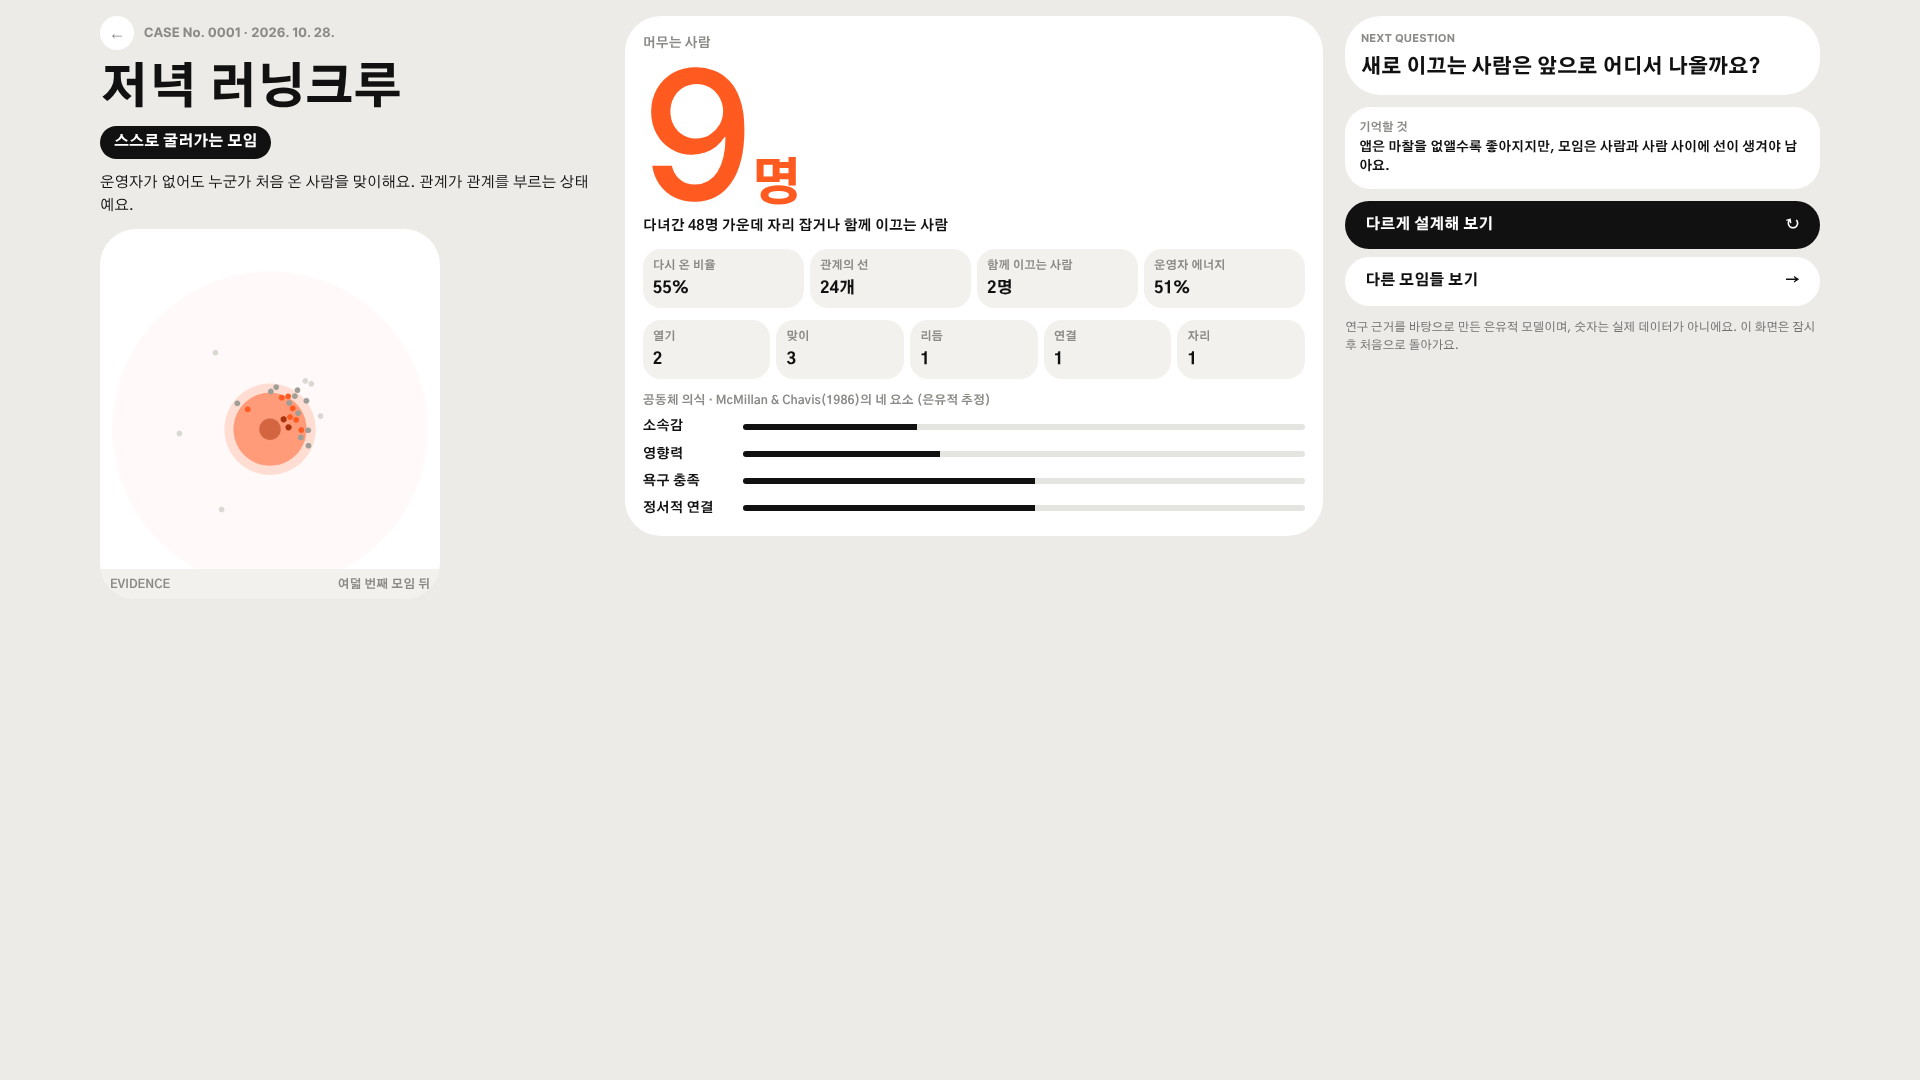
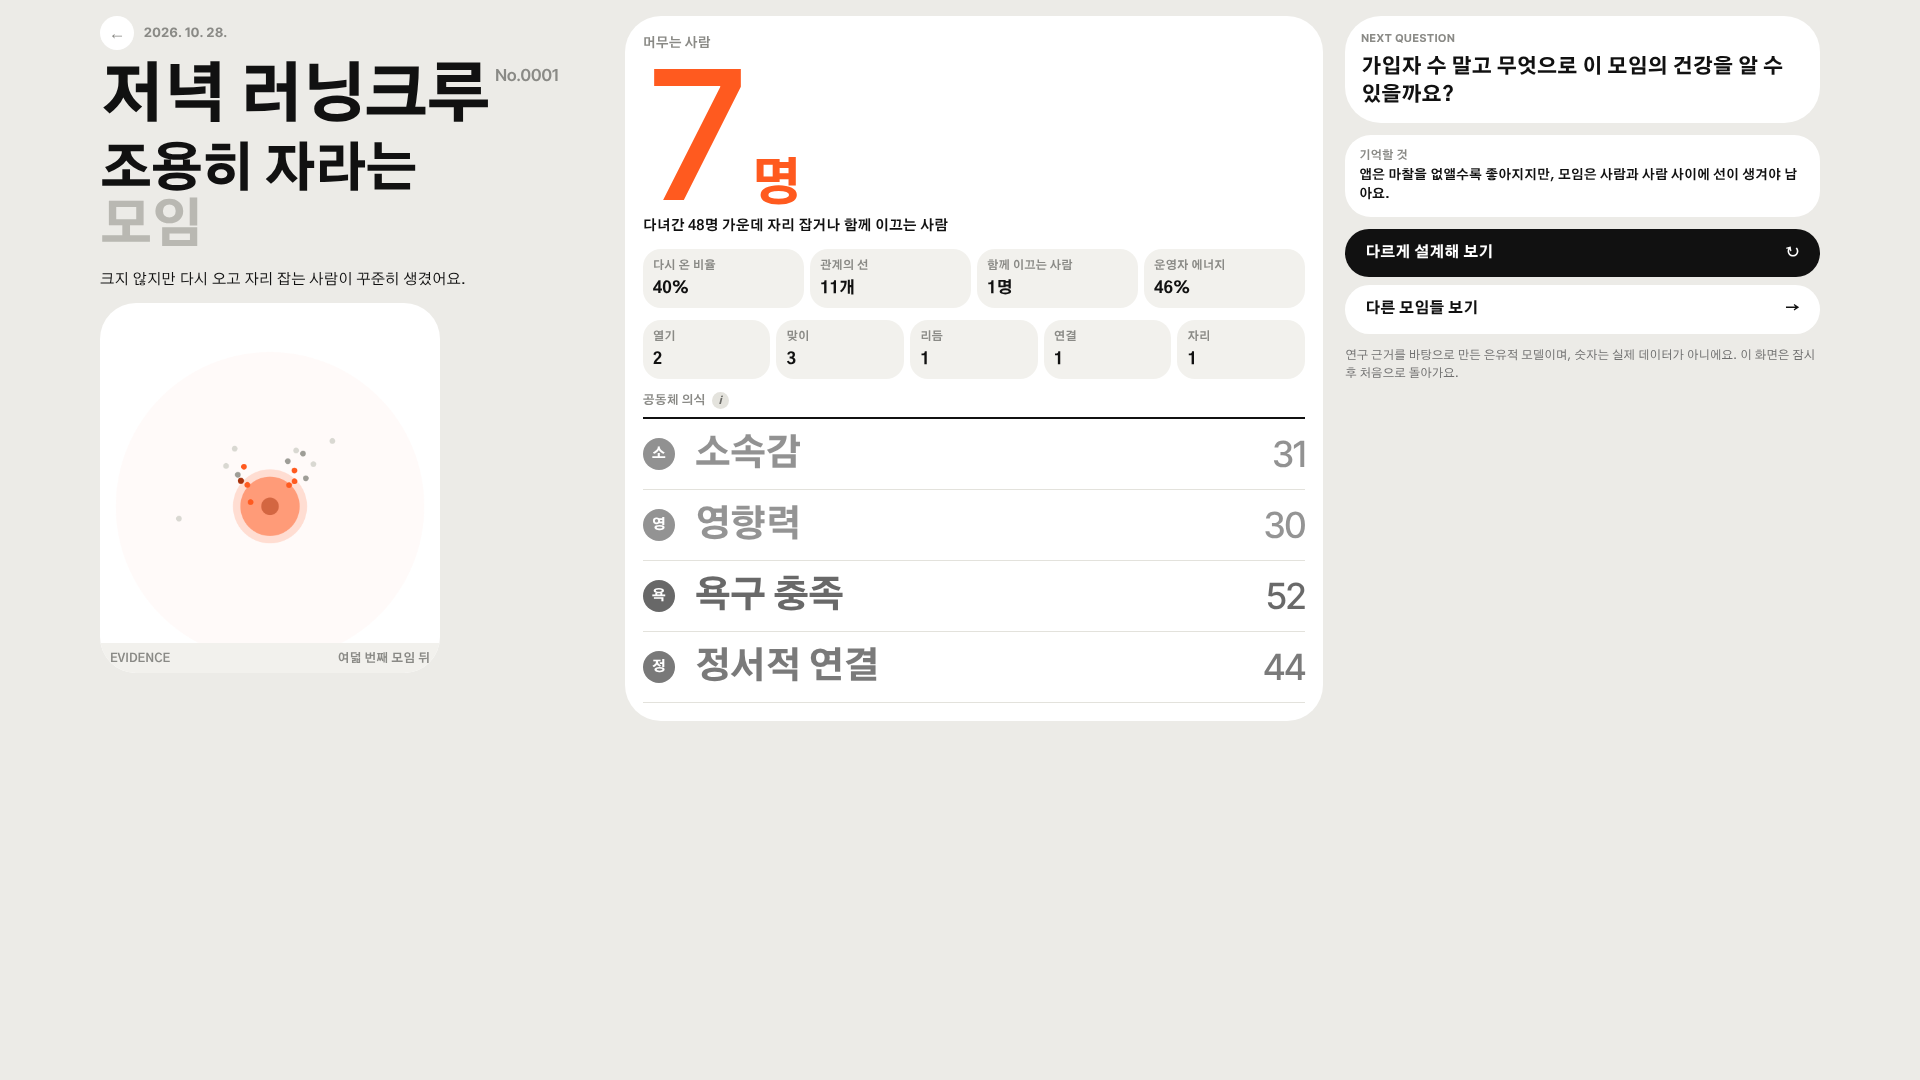
게임 v2.1 시안: 큰 제목+위첨자, 두 톤 결과 유형, 동그라미 글자 목록
Claude-Session: https://claude.ai/code/session_01SaCvLutmawHZS3kxPWYxw7

diff --git a/thesis/game/moim.v07.src.html b/thesis/game/moim.v07.src.html
@@ -585,6 +585,24 @@ body{background:var(--page)}
 .e-cells .cell{padding:12px 14px}
 .e-txt{padding:18px 26px 22px;gap:10px}
 .e-go{margin:0 18px 18px;padding:14px 18px}
+
+/* ───────── v2.1 볼드한 글자 대비: 큰 제목+위첨자, 두 톤 제목, 동그라미 글자 목록 ───────── */
+.bigt{font-weight:800;letter-spacing:-.03em;line-height:1;display:inline-flex;align-items:flex-start}
+.bigt sup{font-family:var(--f-head);font-weight:600;font-size:.26em;color:var(--soft);letter-spacing:0;margin-left:6px;line-height:1.4;vertical-align:top}
+.e-bar{padding:16px 24px;border-radius:var(--r-lg)}
+.e-bar .bigt{font-size:clamp(40px,4.4vw,64px)}
+.e-logo{gap:16px}
+.e-right{display:flex;align-items:center;gap:14px}
+.e-right small{font-family:var(--f-head);font-weight:600;font-size:13px;color:var(--soft)}
+.c2-l h1.bigt{font-size:clamp(40px,4.6vw,64px)}
+.two{font-weight:800;font-size:clamp(34px,3.6vw,52px);line-height:1.08;letter-spacing:-.03em;display:grid}
+.two span{color:#b9b8b2}
+.mm3{display:grid}
+.mm3 .h{font-size:12px;font-weight:700;color:var(--soft);display:flex;align-items:center;padding-bottom:8px;border-bottom:2px solid var(--ink)}
+.mm3 .r{display:grid;grid-template-columns:40px minmax(0,1fr) auto;align-items:center;gap:12px;padding:8px 0;border-bottom:1px solid #e3e2dc}
+.mm3 .r i{width:32px;height:32px;border-radius:50%;background:var(--ink);color:#fff;font-style:normal;font-weight:800;font-size:14px;display:grid;place-items:center;opacity:var(--o)}
+.mm3 .r b{font-weight:800;font-size:clamp(26px,2.4vw,36px);letter-spacing:-.03em;color:rgba(17,17,17,var(--o))}
+.mm3 .r em{font-style:normal;font-family:var(--f-head);font-weight:500;font-size:clamp(26px,2.4vw,36px);letter-spacing:-.03em;color:rgba(17,17,17,var(--o))}
 @media (prefers-reduced-motion:reduce){*{transition:none!important;animation:none!important}}
 </style>
 
@@ -622,6 +640,7 @@ const VERDICTS={
   burn:{t:'운영자가 지친 모임',c:COL.yellow,d:'모든 일이 한 사람에게 몰려 운영자가 먼저 지쳤어요. 커뮤니티는 출시 후에도 계속 가꿔야 해요.',q:'조금 더 하고 싶은 사람이 맡을 수 있는 자리가 있었나요?'},
   root:{t:'아직 뿌리내리지 못한 모임',c:COL.mute,d:'사람이 오고 갔지만 자리 잡은 사람이 적어요.',q:'사람들이 다시 와야 할 이유는 무엇인가요?'}
 };
+const VSPLIT={self:['스스로 굴러가는','모임'],quiet:['조용히 자라는','모임'],crowd:['북적이지만','머무르지 않는 모임'],closed:['끈끈하지만','닫힌 모임'],burn:['운영자가','지친 모임'],root:['아직 뿌리내리지','못한 모임']};
 const VORDER=['self','quiet','crowd','closed','burn','root'];
 const STAGE_NAMES=['처음 온 사람','다시 온 사람','자리 잡은 사람','함께 이끄는 사람'];
 const ACC='#2f6fe0';
@@ -962,7 +981,7 @@ function renderSelect(){
   screen='select';
   const now=new Date(),clock=`${pad(now.getHours())}:${pad(now.getMinutes())}`;
   app.innerHTML=`<section class="entry">
-    <div class="e-bar"><span class="e-logo"><button class="back" id="back" aria-label="처음 화면으로">←</button>Community Entry</span><span class="e-mid">모임을 하나 고르세요. 같은 설계라도 모임마다 결과가 달라요.</span><span class="e-clock num">${clock}</span></div>
+    <div class="e-bar"><span class="e-logo"><button class="back" id="back" aria-label="처음 화면으로">←</button><h1 class="bigt">모임 고르기<sup>${TKEYS.length}</sup></h1></span><span class="e-mid">모임을 하나 고르세요. 같은 설계라도 모임마다 결과가 달라요.</span><span class="e-right"><small>Community Entry</small><span class="e-clock num">${clock}</span></span></div>
     <div class="e-cards">${TKEYS.map((k,i)=>{const v=TYPES[k];return `<button class="ecard" data-t="${k}" style="--c:${v.c};--tbg:${TPAL[k].bg};--tink:${TPAL[k].ink}" aria-label="${v.name} 시작">
       <div class="e-img">${typeArt(k)}</div>
       <div class="e-head"><span class="code">${v.code}</span><span class="ev">${info(`근거 ${v.ev}: 선행연구에서 뽑은 발견 번호예요.`)}</span><span class="sub">${v.name} · ${v.place} · ${v.when} ${v.time}</span></div>
@@ -1145,9 +1164,9 @@ function renderReport(){
     '욕구 충족':clamp(20+8*k.rhythm+8*k.welcome,0,100),'정서적 연결':clamp(10+12*k.conn+Math.min(30,r.links*2),0,100)};
   app.innerHTML=`<section class="case2" style="--accent:${TPAL[r.type].dark};--accent-bg:${TPAL[r.type].bg}">
     <div class="c2-l">
-      <span class="no"><button class="back" id="home2" aria-label="처음 화면으로">←</button>CASE No. ${caseNo} · ${new Date(r.t).toLocaleDateString('ko-KR')}</span>
-      <h1>${T.name}</h1>
-      <span class="vchip">${V.t}</span>
+      <span class="no"><button class="back" id="home2" aria-label="처음 화면으로">←</button>${new Date(r.t).toLocaleDateString('ko-KR')}</span>
+      <h1 class="bigt">${T.name}<sup>No.${caseNo}</sup></h1>
+      <h2 class="two">${VSPLIT[r.verdict][0]}<span>${VSPLIT[r.verdict][1]}</span></h2>
       <p>${V.d}</p>
       <div class="photo2">${st.photo?`<img src="${st.photo}" alt="여덟 번째 모임이 끝난 뒤 모임의 모습">`:''}<div class="cap"><span>EVIDENCE</span><span>여덟 번째 모임 뒤</span></div></div>
     </div>
@@ -1159,8 +1178,8 @@ function renderReport(){
         <div class="cell"><small>함께 이끄는 사람</small><b>${r.leaders}명</b></div>
         <div class="cell"><small>운영자 에너지</small><b style="${r.energy<30?'color:var(--red)':''}">${r.energy}%</b></div></div>
       <div class="cgrid c2-skill">${SKILLS.map(s=>`<div class="cell"><small>${s.name}</small><b>${k[s.k]}</b></div>`).join('')}</div>
-      <div class="mm2"><span class="h">공동체 의식 · McMillan &amp; Chavis(1986)의 네 요소 (은유적 추정)</span>
-        ${Object.entries(g).map(([n,x])=>`<div class="r"><span>${n}</span><span class="bar"><i style="width:${x}%"></i></span></div>`).join('')}</div>
+      <div class="mm3"><span class="h">공동체 의식${info('McMillan &amp; Chavis(1986)의 네 요소를 설계에서 은유적으로 추정한 값이에요. 진할수록 높아요.')}</span>
+        ${Object.entries(g).map(([n,x])=>`<div class="r" style="--o:${(.22+.78*x/100).toFixed(2)}"><i>${n[0]}</i><b>${n}</b><em>${Math.round(x)}</em></div>`).join('')}</div>
     </div>
     <div class="c2-r">
       <div class="q2"><small>NEXT QUESTION</small><b>${V.q}</b></div>

diff --git a/thesis/26-game-prototype.md b/thesis/26-game-prototype.md
@@ -165,3 +165,9 @@
 - 키 컬러를 쓰는 곳: 모임 카드, 첫 화면의 원(모임마다 자기 색), 시뮬레이션의 머무는 사람 점(자리 잡음 = 키 컬러, 이끄는 사람 = 진한 톤)과 숫자, 레벨업 상자, 끝 장면의 원, 결과의 큰 숫자
 - 부딪히는 색 정리: 결과 유형 칩은 검정, 첫 화면 말풍선의 유형 색 점 삭제
 - 모임 고르기 여백: 카드 사이 20px, 카드 안쪽 여백 26px 안팎, 그림 높이 180px
+
+## v2.1 시안 (2026-10-28)
+- 레퍼런스(Audio Lessons UI)의 볼드한 글자 대비 중 ①②③ 적용 (색은 더 쓰지 않음)
+- ① 큰 제목 + 작은 위첨자: 모임 고르기 상단 "모임 고르기³", 결과 화면 "저녁 러닝크루 No.0001"
+- ② 두 톤 제목: 결과 유형을 검정 + 회색 두 줄로 크게 (예: 조용히 자라는 / 모임)
+- ③ 검은 동그라미 글자 + 큰 단어 목록: 공동체 의식 네 요소(소·영·욕·정)를 막대 대신 큰 단어와 숫자로, 점수는 진하기로
